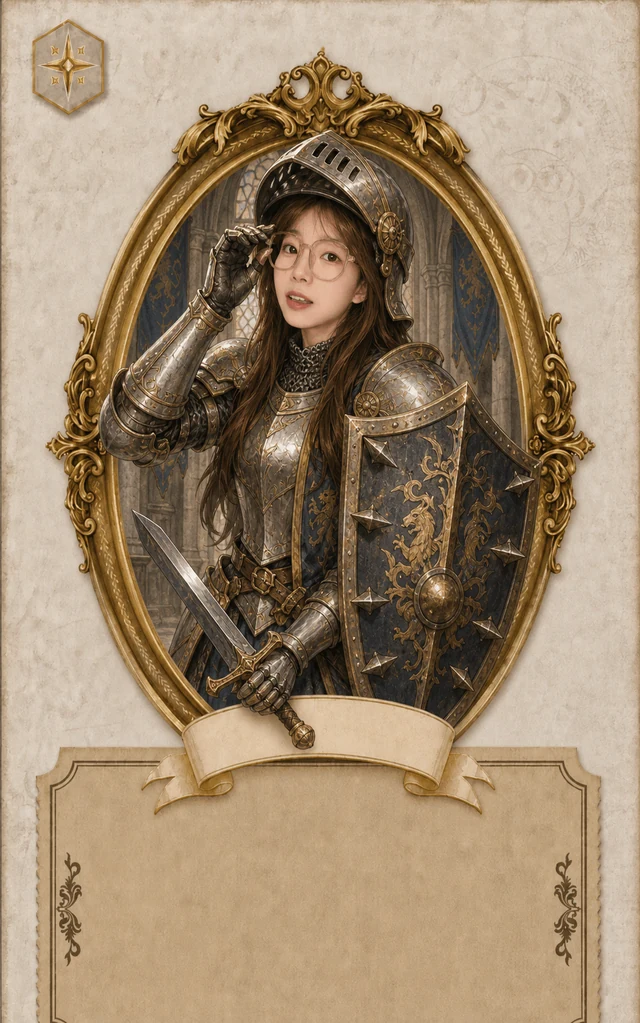
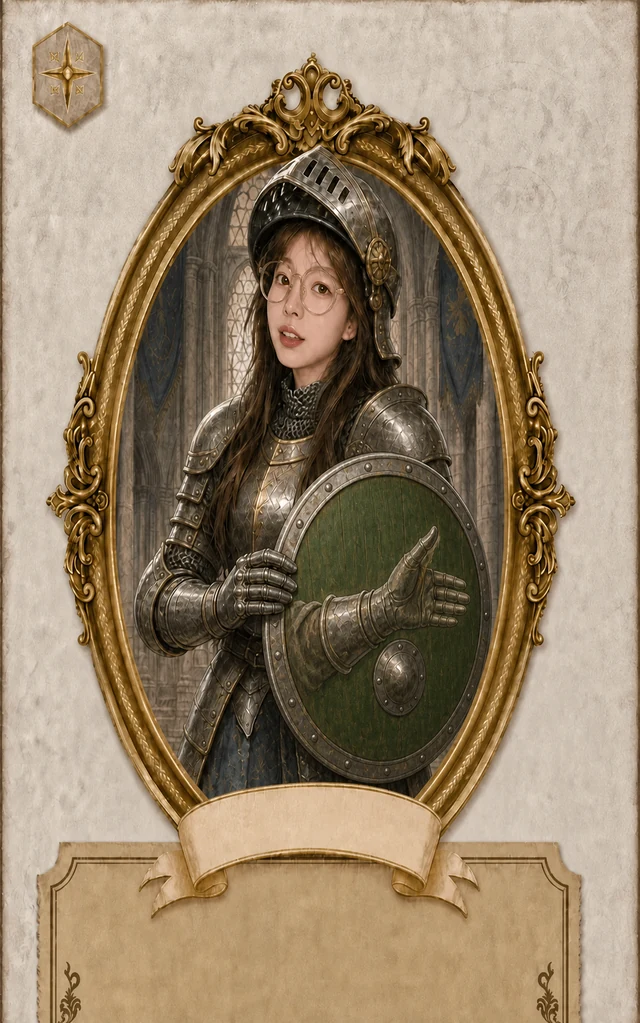
Customize member portraits with distinct medieval weapons and painted shields.
Scale sales weapons by attack, leave purchase defend cards shield-only with unique heraldry, and match Ethan to the photo.

diff --git a/backend/mdFile/新卡牌专属效果（第二版）.md b/backend/mdFile/新卡牌专属效果（第二版）.md
@@ -47,19 +47,19 @@
 
 ## 销售成员 `S-35`～`S-43`
 
-客服剑士立绘（宽刃剑 / 双手剑 / 双手斧 + 轻铠；带盾效果的另持盾）。职位为成员名。不替换现有卡面。数值按「销售部 · 攻击」表入库。
+客服剑士立绘（轻铠；纯攻空手持兵器，带盾效果另持盾。兵器按攻击/护盾强弱缩放，每人不同）。职位为成员名。不替换现有卡面。数值按「销售部 · 攻击」表入库。
 
 | 编号 | 名称 | 费用 | 类型 | 专属效果 | 设计说明 |
 |---|---|---|---|---|---|
-| S-35 | Colin | 0 | 攻击 | 立即造成 2 点伤害 | 基础纯攻 0 费。双手剑。 |
-| S-36 | Carl | 1 | 攻击 | 立即造成 4 点伤害 | 基础纯攻 1 费。宽刃剑。 |
-| S-37 | Nico | 2 | 攻击 | 立即造成 9 点伤害 | 基础纯攻 2 费。双手斧。 |
-| S-38 | Amy | 3 | 攻击 | 立即造成 15 点伤害 | 收藏纯攻顶配。双手大剑。 |
-| S-43 | Kinyond | 3 | 攻击 | 50% 概率立即造成 30 点伤害 | 收藏赌命顶配。双手斧。未中则 0 伤。 |
-| S-39 | Kade | 0 | 攻击 | 立即造成 2 点伤害，并为自己增加 3 点防御 | 收藏：0 费伤 2 自盾 3。剑+圆盾。 |
-| S-40 | Felicity | 1 | 攻击 | 立即造成 3 点伤害，并为自己增加 4 点防御 | 基础：伤 3 自盾 4。剑+盾。 |
-| S-41 | Riley | 2 | 攻击 | 立即造成 7 点伤害，并为自己增加 9 点防御 | 基础：伤 7 自盾 9。剑+鸢盾。 |
-| S-42 | Daniel | 3 | 攻击 | 立即造成 12 点伤害，并为自己增加 15 点防御 | 基础：伤 12 自盾 15。斧+盾。半框眼镜。 |
+| S-35 | Colin | 0 | 攻击 | 立即造成 2 点伤害 | 基础纯攻 0 费。短单手臂剑（最小）。 |
+| S-36 | Carl | 1 | 攻击 | 立即造成 4 点伤害 | 基础纯攻 1 费。中等镰刀剑 falchion。 |
+| S-37 | Nico | 2 | 攻击 | 立即造成 9 点伤害 | 基础纯攻 2 费。双手丹麦大斧。 |
+| S-38 | Amy | 3 | 攻击 | 立即造成 15 点伤害 | 收藏纯攻顶配。很大的双手大剑。 |
+| S-43 | Kinyond | 3 | 攻击 | 50% 概率立即造成 30 点伤害 | 收藏赌命顶配。最大长柄斧 pollaxe（斧刃+锤面+顶刺）。未中则 0 伤。 |
+| S-39 | Kade | 0 | 攻击 | 立即造成 2 点伤害，并为自己增加 3 点防御 | 收藏：0 费伤 2 自盾 3。短臂剑 + 很小钢 buckler。 |
+| S-40 | Felicity | 1 | 攻击 | 立即造成 3 点伤害，并为自己增加 4 点防御 | 基础：伤 3 自盾 4。单手斧 + 小圆盾（有盾心）。 |
+| S-41 | Riley | 2 | 攻击 | 立即造成 7 点伤害，并为自己增加 9 点防御 | 基础：伤 7 自盾 9。手半剑 + 中等鸢盾。 |
+| S-42 | Daniel | 3 | 攻击 | 立即造成 12 点伤害，并为自己增加 15 点防御 | 基础：伤 12 自盾 15。重战锤 + 最大加热盾。半框眼镜。 |
 
 ---
 
@@ -79,22 +79,22 @@
 
 ## 采购成员 `P-26`～`P-37`
 
-守护盾兵 / 重甲师立绘（单手武器 + 带刺盾 + 重铠）。职位为成员名。不替换现有卡面，也不替换销售部同名卡。数值按「采购部 · 防御（含守护）」表入库。
+守护盾兵 / 重甲师立绘（重板甲 + 真实中世纪盾，无攻击兵器，无幻想尖刺。盾面按防御强弱缩放，每人不同纹章/涂鸦）。职位为成员名。不替换现有卡面，也不替换销售部同名卡。数值按「采购部 · 防御（含守护）」表入库。
 
 | 编号 | 名称 | 费用 | 类型 | 专属效果 | 设计说明 |
 |---|---|---|---|---|---|
-| P-26 | Hermione | 0 | 防御 | 为自己增加 3 点防御 | 收藏自盾。钉头锤 + 带刺盾。 |
-| P-27 | Kinyond | 1 | 防御 | 为自己增加 6 点防御 | 基础自盾。战锤 + 带刺塔盾。 |
-| P-28 | Harry | 2 | 防御 | 为自己增加 13 点防御 | 基础自盾顶配。短剑 + 带刺鸢盾。半框眼镜。 |
-| P-29 | Kade | 0 | 防御 | 为一名玩家增加 2 点防御 | 基础指定盾。晨星 + 带刺圆盾。 |
-| P-30 | Sandra | 1 | 防御 | 为一名玩家增加 5 点防御 | 基础指定盾。短剑 + 带刺盾。 |
-| P-31 | Charlene | 2 | 防御 | 为一名玩家增加 11 点防御 | 基础指定盾顶配。钉锤 + 带刺盾。酒红兜帽。 |
-| P-32 | Ethan | 0 | 防御 | 为双方各增加 1 点防御 | 收藏双盾。单手斧 + 带刺圆盾。 |
-| P-33 | Carl | 1 | 防御 | 为双方各增加 3 点防御 | 收藏双盾。战锤 + 带刺鸢盾。 |
-| P-34 | Colin | 2 | 防御 | 为双方各增加 7 点防御 | 收藏双盾。钉锤 + 带刺盾。 |
-| P-35 | Amy | 3 | 防御 | 为双方各增加 12 点防御 | 基础双盾顶配。钉锤 + 带刺盾。 |
-| P-36 | Duane | 0 | 防御 | 替队友承受下一次打向该队友的霸凌者攻击 | 收藏守护。自己仍吃本回合打向自己的那下；队友那一下改打到出牌者，护盾照常结算。 |
-| P-37 | Kad3 | 1 | 防御 | 自己防御 -1，为队友增加 10 点防御 | 收藏让盾。自盾不低于 0；队友自动选存活的另一名玩家。 |
+| P-26 | Hermione | 0 | 防御 | 为自己增加 3 点防御 | 收藏自盾。小加热盾：紫底金边，正中铃兰。不持兵器。 |
+| P-27 | Kinyond | 1 | 防御 | 为自己增加 6 点防御 | 基础自盾。中等鸢盾：黑底金鸢尾，尖端小锤记。不持兵器。 |
+| P-28 | Harry | 2 | 防御 | 为自己增加 13 点防御 | 基础自盾顶配。最大加热盾：深蓝底大金太阳。半框眼镜。不持兵器。 |
+| P-29 | Kade | 0 | 防御 | 为一名玩家增加 2 点防御 | 基础指定盾。小圆盾：白底蓝十字，交叉处伸出的手。不持兵器。 |
+| P-30 | Sandra | 1 | 防御 | 为一名玩家增加 5 点防御 | 基础指定盾。中等圆盾：绿底向外伸的手/羽翼。不持兵器。 |
+| P-31 | Charlene | 2 | 防御 | 为一名玩家增加 11 点防御 | 基础指定盾顶配。大加热盾：酒红底银月+斜带。酒红兜帽。不持兵器。 |
+| P-32 | Ethan | 0 | 防御 | 为双方各增加 1 点防御 | 收藏双盾。极小黄铜 buckler：正中「1」+ 计数刻痕。不持兵器。 |
+| P-33 | Carl | 1 | 防御 | 为双方各增加 3 点防御 | 收藏双盾。targe：深棕皮面交错斜带。不持兵器。 |
+| P-34 | Colin | 2 | 防御 | 为双方各增加 7 点防御 | 收藏双盾。中等加热盾：左蓝右金对分，两边各一星。不持兵器。 |
+| P-35 | Amy | 3 | 防御 | 为双方各增加 12 点防御 | 基础双盾顶配。大 pavise：蓝底双狮相对。不持兵器。 |
+| P-36 | Duane | 0 | 防御 | 替队友承受下一次打向该队友的霸凌者攻击 | 收藏守护。立地高 pavise：城门/门闩 +「挡住」涂鸦。不持兵器。自己仍吃本回合打向自己的那下；队友那一下改打到出牌者，护盾照常结算。 |
+| P-37 | Kad3 | 1 | 防御 | 自己防御 -1，为队友增加 10 点防御 | 收藏让盾。大加热盾：左素钢右金漆，红线缝住裂缝。不持兵器。自盾不低于 0；队友自动选存活的另一名玩家。 |
 
 ---
 
@@ -149,3 +149,7 @@
 | 2026-08-26 | 新增销售 S-28～S-34、采购 P-21～P-25 共十二张中世纪收藏卡；第五张合影拆成盟心商、结契商姐妹卡。不替换现有卡面。 |
 | 2026-08-26 | 下架与机械工匠重复立绘的「系统术士」（T-01），机械工匠保留。 |
 | 2026-09-01 | 新增销售部成员专属攻击卡 S-35～S-43：Colin、Carl、Nico、Amy、Kinyond、Kade、Felicity、Riley、Daniel。不替换现有卡面。 |
+| 2026-09-01 | 销售成员 S-35～S-43、采购成员 P-26～P-37 立绘改为真实中世纪兵器/装具，按攻防强弱缩放武器与盾面；去掉幻想带刺塔盾。 |
+| 2026-09-01 | 采购成员 P-26～P-37 纯防御立绘去掉攻击兵器，只留按防御强弱缩放的盾。 |
+| 2026-09-01 | 采购成员盾面改每人不同纹章/涂鸦：Ethan 计数、Kade 十字伸手、Hermione 铃兰、Carl 斜带、Sandra 绿手、Kinyond 鸢尾锤记、Colin 蓝金对分、Kad3 红缝裂盾、Charlene 银月、Amy 双狮、Harry 金太阳、Duane「挡住」。 |
+| 2026-09-01 | 采购 Ethan 立绘按实拍重塑脸型和蓬松卷发，装备仍为极小黄铜 buckler。 |
